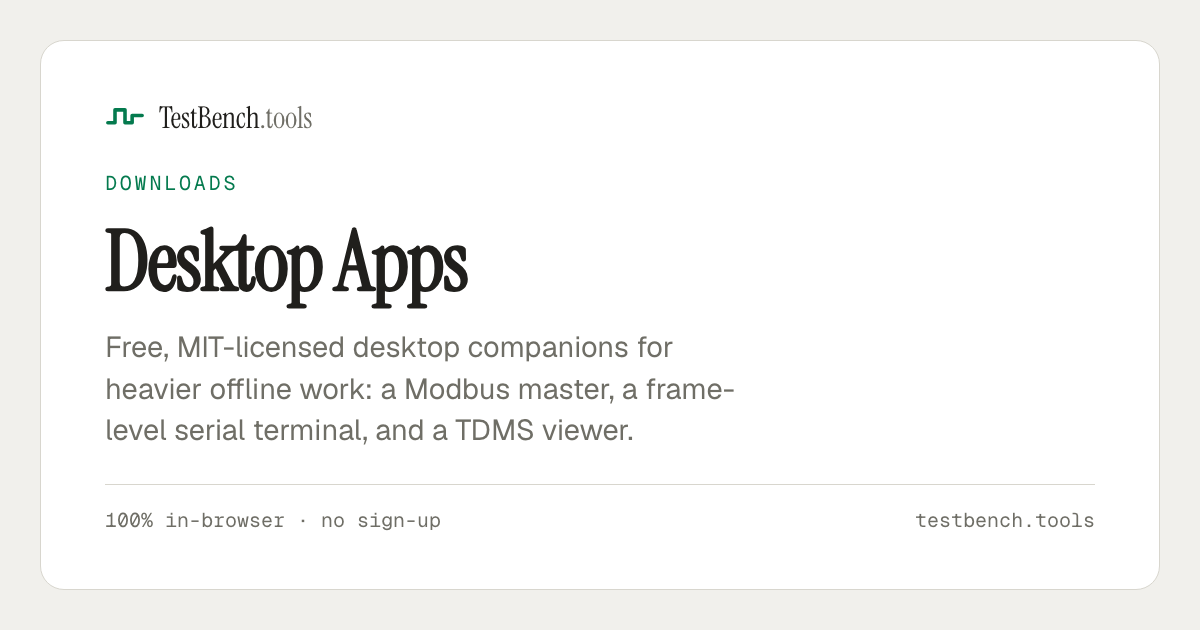
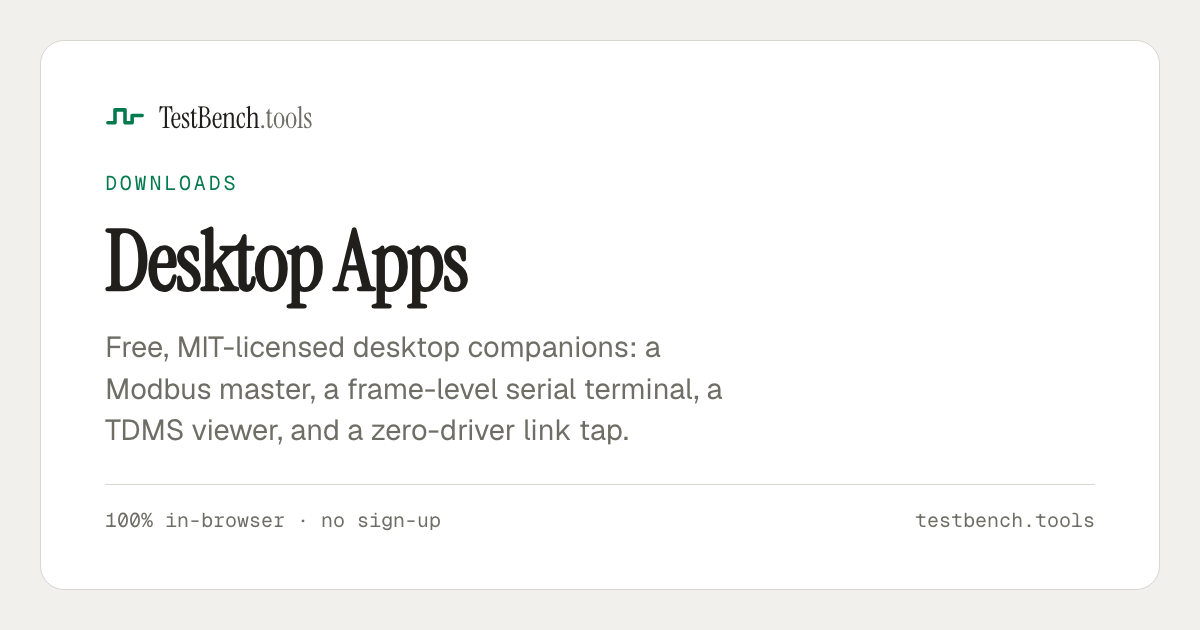
List LinkTap on the download page
The fourth desktop app: a zero-driver tap that sits in the middle of a
TCP or serial link and decodes what passes — Modbus TCP/RTU and NMEA 0183
recognised automatically, direction known rather than guessed. Card,
detail page in all five locales, checksum, winget manifest, and the apps
social card now names all four.

Changed region(s): [[0.0925, 0.6635, 0.5242, 0.7238], [0.0925, 0.6032, 0.6167, 0.6333], [0.5242, 0.5429, 0.555, 0.573]]

diff --git a/apps/web/content/i18n.ts b/apps/web/content/i18n.ts
@@ -452,26 +452,31 @@ export const APP_DESC: Record<SiteLocale, Record<string, string>> = {
     "tdms-converter": "Desktop viewer and CSV converter for NI TDMS measurement files.",
     frameterm: "Serial terminal built for frame-level protocol work.",
     "modbus-workbench": "Modbus RTU/TCP master with polling, writes and a built-in simulator.",
+    "linktap": "Zero-driver tap for TCP and serial links, with automatic Modbus and NMEA decoding.",
   },
   ko: {
     "tdms-converter": "NI TDMS 측정 파일용 데스크톱 뷰어 겸 CSV 변환기.",
     frameterm: "프레임 단위 프로토콜 작업용 시리얼 터미널.",
     "modbus-workbench": "폴링·쓰기·내장 시뮬레이터를 갖춘 Modbus RTU/TCP 마스터.",
+    "linktap": "드라이버 없이 TCP·시리얼 링크 중간을 여는 탭. Modbus·NMEA 자동 해석.",
   },
   ja: {
     "tdms-converter": "NI TDMS計測ファイル用のデスクトップビューア兼CSV変換ツール。",
     frameterm: "フレームレベルのプロトコル作業向けシリアルターミナル。",
     "modbus-workbench": "ポーリング・書き込み・内蔵シミュレータを備えた Modbus RTU/TCP マスター。",
+    "linktap": "ドライバ不要でTCP・シリアルリンクの中間を開くタップ。Modbus・NMEAを自動解釈。",
   },
   de: {
     "tdms-converter": "Desktop-Viewer und CSV-Konverter für NI-TDMS-Messdateien.",
     frameterm: "Serielles Terminal für Protokollarbeit auf Frame-Ebene.",
     "modbus-workbench": "Modbus-RTU/TCP-Master mit Abfragen, Schreibzugriffen und internem Simulator.",
+    "linktap": "Treiberloser Tap für TCP- und serielle Verbindungen, mit automatischer Modbus- und NMEA-Dekodierung.",
   },
   zh: {
     "tdms-converter": "面向 NI TDMS 测量文件的桌面查看器与 CSV 转换工具。",
     frameterm: "面向帧级协议调试的串口终端。",
     "modbus-workbench": "带轮询、写入与内置模拟器的 Modbus RTU/TCP 主站。",
+    "linktap": "无需驱动即可打开 TCP 与串口链路中间的抓取器，自动解析 Modbus 与 NMEA。",
   },
 };
 
@@ -881,6 +886,17 @@ export const APP_DETAIL: Record<SiteLocale, AppDetailStrings> = {
         ],
         counterpartLabel: "Modbus Frame Decoder web tool",
       },
+      linktap: {
+        tagline: "Open the middle of a device link and read what passes — without a driver.",
+        features: [
+          "TCP proxy: point the client at LinkTap, it forwards to the real server",
+          "Serial bridge: device on port A, application on port B, no kernel driver",
+          "Modbus TCP/RTU and NMEA 0183 recognised and decoded to one line each",
+          "Direction is known, not guessed — a client frame is a request by construction",
+          "Plain substring filter, no filter language; demo runs with no hardware",
+        ],
+        counterpartLabel: "Modbus Frame Decoder web tool",
+      },
     },
   },
   ko: {
@@ -924,6 +940,17 @@ export const APP_DETAIL: Record<SiteLocale, AppDetailStrings> = {
         ],
         counterpartLabel: "Modbus Frame Decoder 웹 툴",
       },
+      linktap: {
+        tagline: "드라이버 없이 장치 링크의 중간을 열어 오가는 것을 읽습니다.",
+        features: [
+          "TCP 프록시: 클라이언트를 LinkTap으로 향하게 하면 실제 서버로 전달",
+          "시리얼 브리지: 장치는 포트 A, 앱은 포트 B — 커널 드라이버 불필요",
+          "Modbus TCP/RTU·NMEA 0183을 자동 인식해 한 줄로 해석",
+          "방향은 추측이 아니라 사실 — 클라이언트발 프레임은 구조적으로 요청",
+          "필터 언어 없는 부분일치 검색, 하드웨어 없이 도는 데모",
+        ],
+        counterpartLabel: "Modbus 프레임 디코더 웹 툴",
+      },
     },
   },
   ja: {
@@ -965,6 +992,17 @@ export const APP_DETAIL: Record<SiteLocale, AppDetailStrings> = {
           "完全オフライン動作、UI は 5 言語",
         ],
         counterpartLabel: "Modbus Frame Decoder ウェブツール",
+      },
+      linktap: {
+        tagline: "ドライバなしでデバイスリンクの中間を開き、流れるものを読みます。",
+        features: [
+          "TCPプロキシ: クライアントをLinkTapに向けると実サーバーへ転送",
+          "シリアルブリッジ: デバイスはポートA、アプリはポートB — カーネルドライバ不要",
+          "Modbus TCP/RTU・NMEA 0183を自動認識し1行に解釈",
+          "方向は推測ではなく事実 — クライアント発フレームは構造上リクエスト",
+          "フィルタ言語のない部分一致検索、ハードウェアなしで動くデモ",
+        ],
+        counterpartLabel: "Modbusフレームデコーダー Webツール",
       },
     },
   },
@@ -1008,6 +1046,17 @@ export const APP_DETAIL: Record<SiteLocale, AppDetailStrings> = {
         ],
         counterpartLabel: "Modbus-Frame-Decoder Web-Tool",
       },
+      linktap: {
+        tagline: "Öffnet die Mitte einer Geräteverbindung und liest mit — ohne Treiber.",
+        features: [
+          "TCP-Proxy: Client auf LinkTap richten, Weiterleitung zum echten Server",
+          "Serielle Brücke: Gerät an Port A, Anwendung an Port B — kein Kerneltreiber",
+          "Modbus TCP/RTU und NMEA 0183 automatisch erkannt und je Zeile dekodiert",
+          "Richtung ist Fakt, nicht Vermutung — ein Client-Frame ist per Konstruktion eine Anfrage",
+          "Einfacher Teilstring-Filter statt Filtersprache; Demo läuft ohne Hardware",
+        ],
+        counterpartLabel: "Modbus-Frame-Decoder-Webtool",
+      },
     },
   },
   zh: {
@@ -1049,6 +1098,17 @@ export const APP_DETAIL: Record<SiteLocale, AppDetailStrings> = {
           "完全离线运行；界面支持五种语言",
         ],
         counterpartLabel: "Modbus 报文解码 网页工具",
+      },
+      linktap: {
+        tagline: "无需驱动即可打开设备链路的中间，读取往来的数据。",
+        features: [
+          "TCP 代理：将客户端指向 LinkTap，由它转发到真实服务器",
+          "串口桥接：设备接端口 A，应用接端口 B — 无需内核驱动",
+          "自动识别 Modbus TCP/RTU 与 NMEA 0183，每条报文解析为一行",
+          "方向是事实而非猜测 — 来自客户端的帧在结构上就是请求",
+          "无过滤语言的子串过滤；演示无需任何硬件",
+        ],
+        counterpartLabel: "Modbus 帧解码器网页工具",
       },
     },
   },

diff --git a/apps/web/components/pages/AppDetailBody.tsx b/apps/web/components/pages/AppDetailBody.tsx
@@ -9,6 +9,7 @@ const COUNTERPART: Record<string, string> = {
   "tdms-converter": "/tools/tdms-to-csv/",
   frameterm: "/tools/modbus-frame-decoder/",
   "modbus-workbench": "/tools/modbus-frame-decoder/",
+  linktap: "/tools/modbus-frame-decoder/",
 };
 
 export function AppDetailBody({ locale, slug }: { locale: SiteLocale; slug: string }) {

diff --git a/README.md b/README.md
@@ -104,11 +104,12 @@ mid-explainer, never inside the tool's input or result area.
 ## Desktop apps
 
 Heavier offline work — multi-gigabyte files, live serial ports, batch jobs — is
-handled by three free MIT-licensed desktop apps, each in its own repository:
+handled by four free MIT-licensed desktop apps, each in its own repository:
 
 - [Modbus Workbench](https://github.com/Kim-Hakseong/testbench-modbus-workbench) — Modbus RTU/TCP master with polling, writes and a built-in slave simulator
 - [FrameTerm](https://github.com/Kim-Hakseong/testbench-frameterm) — serial terminal built for frame-level protocol work
-- [TDMS Converter](https://github.com/Kim-Hakseong/testbench-tdms-converter) — viewer and CSV converter for NI TDMS measurement files
+- [TDMS Converter](https://github.com/Kim-Hakseong/testbench-tdms-converter) — viewer and CSV/xlsx converter for NI TDMS measurement files
+- [LinkTap](https://github.com/Kim-Hakseong/testbench-linktap) — zero-driver tap for TCP and serial links, with automatic Modbus and NMEA decoding
 
 ## Contributing
 
